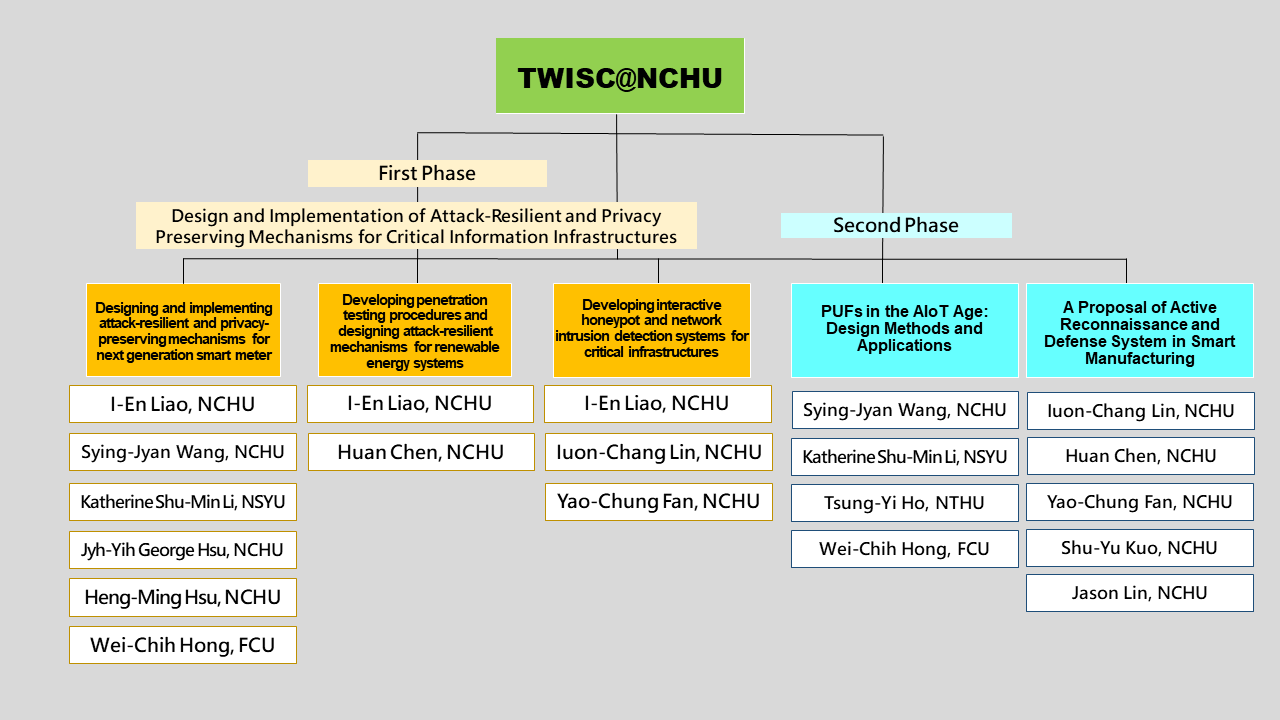
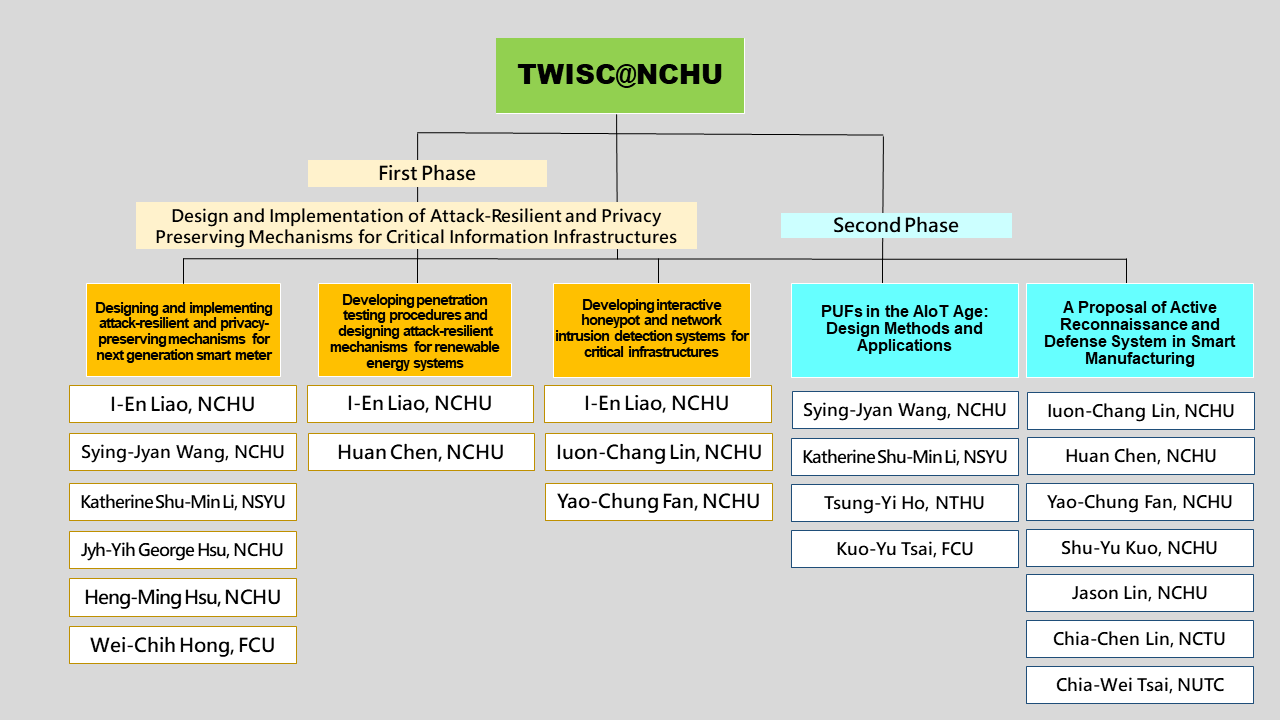
update pages
更新 about, events, research 頁面

Changed region(s): [[0.7812, 0.8556, 1.0, 0.9778], [0.625, 0.7333, 0.7812, 0.7944], [0.4062, 0.0917, 0.5625, 0.1222]]

diff --git a/html/research.html b/html/research.html
@@ -582,6 +582,48 @@
       </tr>
       <tr>
         <td>
+          2020-12-17~18
+        </td>
+        <td>
+          <strong>Sying-Jyan Wang</strong>, Cheng Xuan Cai, Yen-Wen Tseng and <strong>Katherine Shu-Min Li</strong>
+        </td>
+        <td>
+          Feature Selection for Malicious Traffic Detection with Machine Learning
+        </td>
+        <td>
+          International Computer Symposium 2020
+        </td>
+      </tr>
+      <tr>
+        <td>
+          2021-2-26
+        </td>
+        <td>
+          <strong>Sying-Jyan Wang</strong>, Yu-Sheng Chen, and <strong>Katherine Shu-Min Li</strong>
+        </td>
+        <td>
+          Modeling Attack Resistant PUFs Based on Adversarial Attack against Machine Learning
+        </td>
+        <td>
+          IEEE Journal on Emerging and Selected Topics in Circuits and Systems, vol 11, pp. 306-318, 2021, doi:10.1109/JETCAS.2021.3062413
+        </td>
+      </tr>
+      <tr>
+        <td>
+          2021-04-19~22
+        </td>
+        <td>
+          <strong>Sying-Jyan Wang</strong>, Tzu-Heng Chang, <strong>Katherine Shu-Min Li</strong>
+        </td>
+        <td>
+          Machine Learning Assisted Challenge Selection for Modeling Attack Resistance in Strong PUFs
+        </td>
+        <td>
+          2021 International Symposium on VLSI Design, Automation and Test (VLSI-DAT)
+        </td>
+      </tr>
+      <tr>
+        <td>
           2021-06
         </td>
         <td>
@@ -666,6 +708,34 @@
       </tr>
       <tr>
         <td>
+          2022-04-15
+        </td>
+        <td>
+          <strong>Jason Lin,Chia-Wei Tsai</strong>, Chun-Wei Yang, Kuan-Hung Liu
+        </td>
+        <td>
+          A Large Payload Data Hiding Scheme Using Scalable Secret Reference Matrix
+        </td>
+        <td>
+          Symmetry 2022, 14(2), 828 <a href="https://www.mdpi.com/2073-8994/14/4/828">https://www.mdpi.com/2073-8994/14/4/828</a>.
+        </td>
+      </tr>
+      <tr>
+        <td>
+          2022-04-10
+        </td>
+        <td>
+          Hung-Wen Wang, <strong>Chia-Wei Tsai, Jason Lin</strong>, Yu-Yun Huang, Chun-Wei Yang
+        </td>
+        <td>
+          Efficient and secure measure-resend authenticated semi-quantum key distribution protocol against reflecting attack
+        </td>
+        <td>
+          Mathematics 2022, 10(8), 1241 <a href="https://www.mdpi.com/2227-7390/10/8/1241">https://www.mdpi.com/2227-7390/10/8/1241</a>.
+        </td>
+      </tr>
+      <tr>
+        <td>
           2022-04-18~21
         </td>
         <td>
@@ -676,6 +746,183 @@
         </td>
         <td>
           2022 International Symposium on VLSI Design, Automation and Test (2022 VLSI-DAT)
+        </td>
+      </tr>
+      <tr>
+        <td>
+          2022-04-30
+        </td>
+        <td>
+          <strong>Chia-Wei Tsai</strong>, Kuei-Chun Chiang, Hsin-Yuan Hsieh, Chun-Wei Yang, <strong>Jason Lin</strong>, Yao-Chung Chang
+        </td>
+        <td>
+          Feature Extraction of Anomaly Electricity Usage Behavior in Residence Using Autoencoder
+        </td>
+        <td>
+          Electronics 2022, 11(9), 1450 <a href="https://www.mdpi.com/2079-9292/11/9/1450">https://www.mdpi.com/2079-9292/11/9/1450</a>.
+        </td>
+      </tr>
+      <tr>
+        <td>
+          2022-06-16~17
+        </td>
+        <td>
+          應瑞傑；<strong>蔡國裕</strong>；李榮三；周澤捷
+        </td>
+        <td>
+          基於聲譽清單之可移動式路側單元集群協定
+        </td>
+        <td>
+          第三十二屆全國資訊安全會議(CISC 2022) Cryptology and Information Security Conference 2022
+        </td>
+      </tr>
+      <tr>
+        <td>
+          2022-06-16~17
+        </td>
+        <td>
+          籃若瑜；<strong>蔡國裕</strong>；賴俊鳴；王銘宏
+        </td>
+        <td>
+          短文本論述萃取演算法
+        </td>
+        <td>
+          第三十二屆全國資訊安全會議(CISC 2022) Cryptology and Information Security Conference 2022
+        </td>
+      </tr>
+      <tr>
+        <td>
+          2022-07-18~23
+        </td>
+        <td>
+          Chih-Shuo Tsai, Ying-Hong Chan, <strong>Yao-Chung Fan</strong>
+        </td>
+        <td>
+          Hierarchical Cache Transformer: Dynamic Early Exit for Language Translation
+        </td>
+        <td>
+          2022 International Joint Conference on Neural Networks (IJCNN)
+        </td>
+      </tr>
+      <tr>
+        <td>
+          2022-09-22
+        </td>
+        <td>
+          <strong>Shu-Yu Kuo</strong>, Kuo-Chun Tseng, Yao-Hsin Chou, Fan-Hsun Tseng, 
+        </td>
+        <td>
+          Quantum Oblivious Transfer with Reusable Bell State
+        </td>
+        <td>
+          Computers, Materials & Continua 2023, 74(1), 915-932
+        </td>
+      </tr>
+      <tr>
+        <td>
+          2022-10-10
+        </td>
+        <td>
+          <strong>Jason Lin; Chia-Wei Tsai</strong>; Chun-Wei Yang
+        </td>
+        <td>
+          Cryptanalysis and Improvement of the Measurement-Device-Independent Quantum Key Distribution with Hyper-Encoding
+        </td>
+        <td>
+          Modern Physics Letters A , Vol. 37, No. 31, 2250212 (2022)
+        </td>
+      </tr>
+      <tr>
+        <td>
+          2022-10-14~16
+        </td>
+        <td>
+          <strong>Sying-Jyan Wang,</strong> Yi-Chi Lin, Chen-Yeh Lin, Song-Kong Chong, <strong>Katherine Shu-Min Li</strong>
+        </td>
+        <td>
+          Automatic Alignment for Side-Channel Attack Against Cryptographic Modules
+        </td>
+        <td>
+          2022 IET International Conference on Engineering Technologies and Applications
+        </td>
+      </tr>
+      <tr>
+        <td>
+          2022-10-14~16
+        </td>
+        <td>
+          <strong>Chun-Tsai Chien, Chien Lung Wang</strong> and <strong>Sying-Jyan Wang</strong>
+        </td>
+        <td>
+          Zero Payload Enhanced AES Cryptography Against Side-Channel Attacks
+        </td>
+        <td>
+          2022 IET International Conference on Engineering Technologies and Applications
+        </td>
+      </tr>
+      <tr>
+        <td>
+          2022-10-14~16
+        </td>
+        <td>
+          <strong>Chien-Lung Wang; Iuon-Chang Lin; Chun-Tsai Chien; Sying-Jyan Wang</strong> ;Jou-An Shih; I-En Liao
+        <td>
+          An Evaluation of Cybersecurity Risks of DLMS/COSEM Smart Meter Using Fuzzing Testing
+        </td>
+        <td>
+          2022 IET International Conference on Engineering Technologies and Applications
+        </td>
+      </tr>
+      <tr>
+        <td>
+          2022-10-27~29
+        </td>
+        <td>
+          Shih-Wei Guo, Tzu-Chi Chen, Hui-Juan Wang, Fang-Yie Leu, <strong>Yao-Chung Fan</strong>
+        <td>
+          Generating Personalized Phishing Emails for Social Engineering Training Based on Neural Language Models.
+        </td>
+        <td>
+          BWCCA 2022: Advances on Broad-Band Wireless Computing, Communication and Applications 
+        </td>
+      </tr>
+      <tr>
+        <td>
+          2022-12-15~17
+        </td>
+        <td>
+          施語涵；黃詩軒；<strong>蔡家緯</strong>；張耀中；盧韻文；王李品檠
+        <td>
+          基於用電負載情境預測冰水主機負載及電力能耗預測
+        </td>
+        <td>
+          2022 臺灣網際網路研討會TANET
+        </td>
+      </tr>
+      <tr>
+        <td>
+          2022-12-15~17
+        </td>
+        <td>
+          謝欣原；蔣貴君；<strong>蔡家緯</strong>
+        <td>
+          使用集成學習策略於住宅用戶異常用電行為辨識之研究
+        </td>
+        <td>
+          2022 臺灣網際網路研討會TANET
+        </td>
+      </tr>
+      <tr>
+        <td>
+          2023-01-14
+        </td>
+        <td>
+          Chun-Wei Yang; Hung-Wen Wang; <strong>Jason Lin; Chia-Wei Tsai </strong>
+        <td>
+          Semi-quantum Identification without Information Leakage
+        </td>
+        <td>
+          Mathematics 2023, 11(2), 452
         </td>
       </tr>
     </tbody>

diff --git a/html/about.html b/html/about.html
@@ -51,7 +51,7 @@ strategy, and to strengthen the teaching, research, promotion and service needs 
   <li>Professor Sying-Jyan Wang, Department of Computer Science and Engineering, National Chung Hsing University</li>
   <li>Professor Katherine Shu-Min Li, Department of Computer Science and Engineering, National Sun Yat-sen University</li>
   <li>Professor Tsung-Yi Ho, Department of Computer Science, National Tsing Hua University</li>
-  <li>Associate Professor Wei-Chih Hong, Department of Information Engineering and Computer Science of Feng Chia University</li>
+  <li>	Associate Professor Kuo-Yu Tsai, Department of Information Engineering and Computer Science of Feng Chia University</li>
 </ul>
 <h3>Research team of Industrial Control Information Security</h3>
 <ul>
@@ -60,6 +60,8 @@ strategy, and to strengthen the teaching, research, promotion and service needs 
   <li>Associate Professor Yao-Chung Fan, Department of Computer Science and Engineering, National Chung Hsing University</li>
   <li>Assistant Professor Shu-Yu Kuo, Department of Computer Science and Engineering, National Chung Hsing University</li>
   <li>Assistant Professor Jason Lin, Department of Computer Science and Engineering, National Chung Hsing University</li>
+  <li>Professor Chia-Chen Lin, Department of Computer Science and Information Engineering, National Chin-Yi University of Technology</li>
+  <li>Assistant Professor Chia-Wei Tsai, Department of Computer Science and Information Engineering, National Taichung University of Science and Technology</li>
 </ul>
 <h3>Administrative team</h3>
 <div class="card-group">
@@ -136,23 +138,26 @@ strategy, and to strengthen the teaching, research, promotion and service needs 
   </blockquote>
 </div>
 {{else}}
-<h2>中心成員</h2>
+<h2>團隊成員</h2>
 <img src="/assets/img/about-team.png" style="max-width: 1200px; width: 100%;">
+<h2>核心成員</h2>
 <h3>「硬體資安」研究團隊</h3>
 <ul>
   <li>中興大學資工系王行健 教授</li>
   <li>中山大學資工系李淑敏 教授</li>
   <li>清華大學資工系何宗易 教授</li>
-  <li>逢甲大學資工系洪維志 副教授</li>
+  <li>逢甲大學資工系蔡國裕 副教授</li>
 </ul>
 
 <h3>「工控資安」研究團隊</h3>
 <ul>
   <li>中興大學資管系林詠章 教授</li>
+  <li>勤益科大資工系林家禎 特聘教授</li>
   <li>中興大學資工系陳 煥 副教授</li>
   <li>中興大學資工系范耀中 副教授</li>
   <li>中興大學資工系郭姝妤 助理教授</li>
   <li>中興大學資工系林傑森 助理教授</li>
+  <li>臺中科大資工系蔡家緯 助理教授</li>
 </ul>
 
 <h3>行政團隊</h3>

diff --git a/html/events.html b/html/events.html
@@ -93,6 +93,28 @@
         <td>2020-10-13</td>
         <td>Mbed開發@M2351教育訓練研習營</td>
       </tr>
+
+      <tr>
+        <td>2022-02-11~12</td>
+        <td>科技部前瞻資安科技專案110年度考評暨成果發表會</td>
+      </tr>
+      <tr>
+        <td>2022-03-11</td>
+        <td>資安區域聯防與未來展望演講</td>
+      </tr>
+      <tr>
+        <td>2022-07-27</td>
+        <td>鴻海雲高AION平台教育訓練</td>
+      </tr>
+      <tr>
+        <td>2022-10-28</td>
+        <td>111年度資通安全弱點通報機制(VANS) C級學校聯合服務說明研討會</td>
+      </tr>
+      <tr>
+        <td>2022-12-23</td>
+        <td>111年度資通安全弱點通報機制(VANS) C級學校聯合服務說明研討會</td>
+      </tr>
+
     </tbody>
   </table>
 </div>
